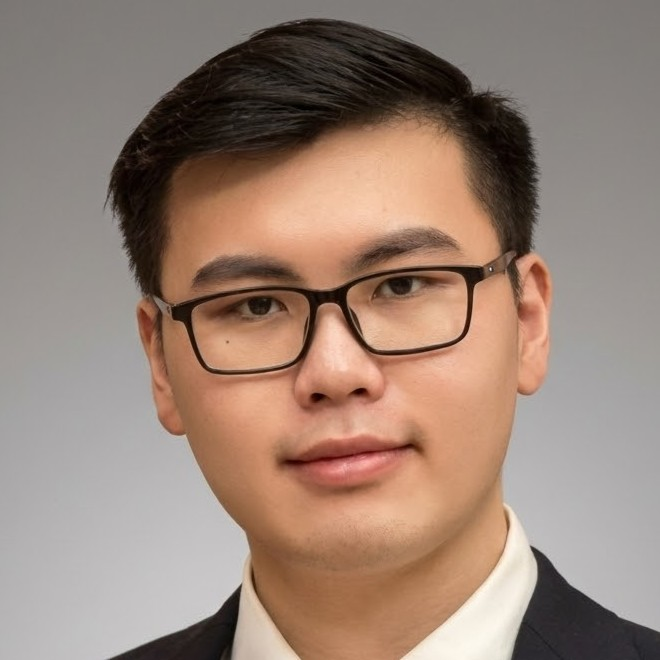
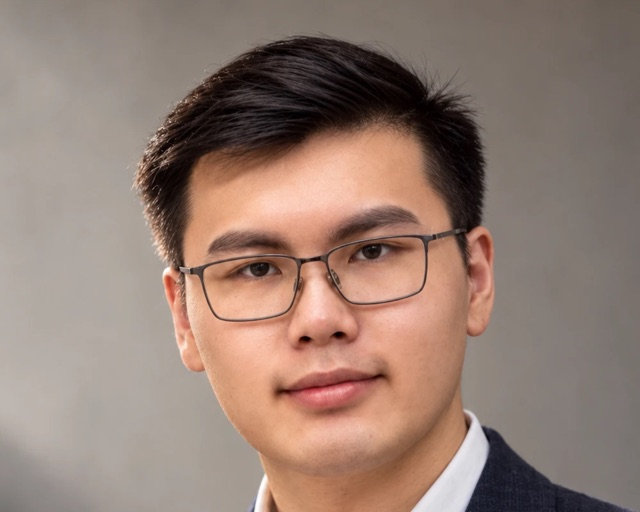
New portrait, uncropped hero pill, hero font preloads
- Replace hero headshot with the new portrait as a 5:4 head-and-shoulders crop;
  lock the pill to that ratio so object-fit never trims the face, and swap the
  width-growing hover (which re-cropped) for a slight tilt.
- Update the square social card from the same photo.
- Preload Instrument Serif regular/italic and Geist latin woff2; Vite emits
  the same hashed files the CSS references.
- Motion button icon reflects the user's pause, not automatic off-screen pausing.

diff --git a/src/assets/styles/Home.scss b/src/assets/styles/Home.scss
@@ -97,20 +97,21 @@
 /* The portrait sits inside the name like a typographic ornament. */
 .hero-portrait {
   display: inline-block;
-  width: 1.18em;
-  height: 0.72em;
+  /* The box matches the 5:4 head-and-shoulders crop, so cover never trims the face. */
+  height: 0.8em;
+  width: auto;
+  aspect-ratio: 5 / 4;
   margin-left: 0.14em;
   border-radius: 999px;
   object-fit: cover;
-  object-position: 50% 32%;
-  filter: grayscale(0.25) contrast(1.02);
-  transition: width var(--dur-3) var(--ease-out), filter var(--dur-3) ease;
+  filter: grayscale(0.2) contrast(1.02);
+  transition: transform var(--dur-3) var(--ease-out), filter var(--dur-3) ease;
   align-self: center;
   translate: 0 0.04em;
 
   @media (hover: hover) {
     .hero-title:hover & {
-      width: 1.5em;
+      transform: rotate(-4deg) scale(1.04);
       filter: none;
     }
   }
@@ -266,10 +267,6 @@
 @media (max-width: 520px) {
   .hero-title .line-2 {
     padding-left: 0.5em;
-  }
-
-  .hero-portrait {
-    width: 1.05em;
   }
 
   .cta-container .btn {

diff --git a/index.html b/index.html
@@ -50,6 +50,10 @@
       gtag('config', 'G-JTYMBZ8XV3');
     </script>
     
+    <!-- Hero typefaces: fetch before CSS discovery so the opening name does not reflow. -->
+    <link rel="preload" href="/node_modules/@fontsource/instrument-serif/files/instrument-serif-latin-400-normal.woff2" as="font" type="font/woff2" crossorigin />
+    <link rel="preload" href="/node_modules/@fontsource/instrument-serif/files/instrument-serif-latin-400-italic.woff2" as="font" type="font/woff2" crossorigin />
+    <link rel="preload" href="/node_modules/@fontsource-variable/geist/files/geist-latin-wght-normal.woff2" as="font" type="font/woff2" crossorigin />
     <meta name="theme-color" content="#0b0b0c" media="(prefers-color-scheme: dark)" />
     <meta name="theme-color" content="#f3f0e8" media="(prefers-color-scheme: light)" />
     <script>

diff --git a/src/components/Main.tsx b/src/components/Main.tsx
@@ -25,7 +25,7 @@ function Main() {
           <p className="eyebrow hero-eyebrow"><span className="signal" aria-hidden="true" />Applied AI Engineer &amp; Researcher</p>
 
           <h1 className="hero-title" id="hero-title">
-            <span className="line"><span>Harold<img src={profileImage} alt="" className="hero-portrait" width={660} height={660} {...{ fetchpriority: "high" }} /></span></span>
+            <span className="line"><span>Harold<img src={profileImage} alt="" className="hero-portrait" width={640} height={512} {...{ fetchpriority: "high" }} /></span></span>
             {' '}
             <span className="line line-2"><span><em>Zhong</em></span></span>
           </h1>

diff --git a/src/components/AuroraBackground.tsx b/src/components/AuroraBackground.tsx
@@ -38,7 +38,7 @@ const AuroraBackground: React.FC<{ children: React.ReactNode }> = ({ children })
       <div className="aurora-content">
         {children}
       </div>
-      <button type="button" className="motion-control" onClick={toggleMotion}>
+      <button type="button" className="motion-control" data-user-paused={paused} onClick={toggleMotion}>
         <span className="motion-icon" aria-hidden="true" />
         {paused ? 'Resume background animation' : 'Pause background animation'}
       </button>

diff --git a/src/assets/styles/Aurora.scss b/src/assets/styles/Aurora.scss
@@ -133,7 +133,7 @@
   height: 9px;
   border-inline: 2.5px solid currentColor;
 
-  .aurora-container[data-paused='true'] & {
+  .motion-control[data-user-paused='true'] & {
     border: 0;
     background: currentColor;
     clip-path: polygon(0 0, 100% 50%, 0 100%);
